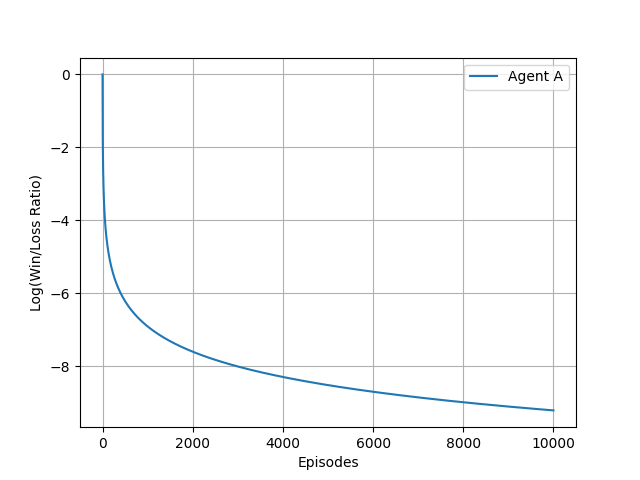
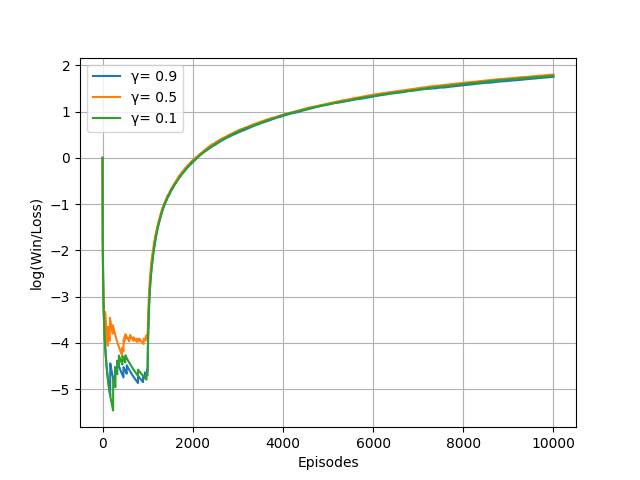
plot functions in deterministic case

diff --git a/qlearning.py b/qlearning.py
@@ -3,28 +3,21 @@ from gymnasium import Env
 import numpy as np
 import math
 
-def build_env(deterministic: bool, map_name: str, render_mode: str) -> Env:
-    return gym.make('FrozenLake-v1', map_name=map_name, is_slippery=deterministic, render_mode=render_mode)
+def build_env(stochastic: bool, map_name: str, render_mode: str) -> Env:
+    return gym.make('FrozenLake-v1', map_name=map_name, is_slippery=stochastic, render_mode=render_mode)
 
-def softmax(q_values, k):
-    q_scaled = k * q_values
-    q_scaled -= np.max(q_scaled)
-    exp_q = np.exp(q_scaled)
-    return exp_q / np.sum(exp_q)
+def epsilon_decay(episode, epsilon_min=0.05, epsilon_start=0.9, decay_rate=0.995, num_episodes = 1000):
+    
+    if episode < num_episodes * 0.1:
+        return epsilon_start
+    epsilon = epsilon_start * (decay_rate ** episode)
+    return max(epsilon, epsilon_min)
 
-def epsilon_decay(episode, epsilon_min=0.01, epsilon_start=0.9, decay_rate=0.001):
-    epsilon = epsilon_min + (epsilon_start - epsilon_min) * math.exp(-decay_rate * episode)
-    return epsilon
-
-
-def _train_deterministic(
+def train_deterministic(
     env: Env,
     num_episodes: int = 1000,
     discount_factor: float = 0.95,
-    epsilon: float = 0.9,
-    k_min: float = 0.1,
-    k_max: float = 100,
-    epsilon_greedy: bool = True
+    epsilon: float = 0.9
     
 ):
     n_states = env.observation_space.n
@@ -34,16 +27,15 @@ def _train_deterministic(
     # for each s, a initialize table entry Qˆ[s, a] ← 0
     Q = np.zeros((n_states, n_actions)) 
 
-    # Random Generator used in softmax strategy
-    rng = np.random.default_rng() # Generator instance
-
     rewards_per_episodes = [0] * num_episodes # initialize to 0
 
+    
     # Iterate over num_episodes
     for episode in range(num_episodes):
         
+        epsilon = epsilon_decay(episode=episode, epsilon_start=epsilon, num_episodes=num_episodes)
         done = False
-
+    
         # Step 2 - observe the current state
         state, _ = env.reset()
 
@@ -53,29 +45,13 @@ def _train_deterministic(
             # How does agent chooses next action? Eploitation vs Exploration
             
             # ε-greedy exploration
-            if epsilon_greedy:
-
-                # ε decreases over time (prefer exploration first, then exploitation as suggested in the slides)
-
-                epsilon = epsilon_decay(episode=episode, epsilon_start=epsilon)
-
-                if np.random.rand() < epsilon:
-                    # Exploration
-                    action = env.action_space.sample()
-                else:
-                    # Exploitation: Chooses an action that maximize Qˆ(s, a)
-                    action = np.argmax(Q[state, :])
+            if np.random.rand() < epsilon:    
+                # Exploration
+                action = env.action_space.sample()
             else:
-                
-                # Softmax strategy as suggested in the slides k may increase over time (first exploration, then exploitation)
-                k = k_min + (k_max - k_min) * (episode / num_episodes)
-
-                #softmax function assigns different probabilities to each action — depending on their Q-values.
-                action_probs = softmax(Q[state], k) 
-                
-                # randomly selects an action using a softmax probability distribution over actions
-                action = rng.choice(n_actions, p=action_probs)
-
+                # Exploitation: Chooses an action that maximize Qˆ(s, a)
+                action = np.argmax(Q[state, :])
+            
             # Execute the given action
             next_state, reward, truncated, terminated, _ = env.step(action)
 
@@ -84,30 +60,33 @@ def _train_deterministic(
             
             # Update the table entry
             Q[state, action] = reward + discount_factor * np.max(Q[next_state, :])
-
+            
             # Update the current state
             state = next_state
         
             # Overwrite the item at index episode with value 1
             if reward == 1:
-                rewards_per_episodes[episode] = 1 
-    
+                rewards_per_episodes[episode] = 1
+
+            
+            
     # For each state s (each row in Q), it finds the action index with the highest Q-value
     policy = np.argmax(Q, axis=1) # policy is a 1D array of length n_states 
 
+    env.close()
     return Q, policy, rewards_per_episodes
 
-def train_deterministic_epsilon_greedy(env: Env,
-    num_episodes: int = 1000,
-    discount_factor: float = 0.95,
-    epsilon: float = 0.9,
-    ):
-    return _train_deterministic(env=env, num_episodes=num_episodes, discount_factor=discount_factor, epsilon=epsilon, epsilon_greedy=True)
 
-def train_deterministic_softmax(env: Env,
-    num_episodes: int = 1000,
-    discount_factor: float = 0.95,
-    k_min: float = 0.1,
-    k_max: float = 100,
-    ):
-    return _train_deterministic(env=env, num_episodes=num_episodes, discount_factor=discount_factor, k_min=k_min, k_max=k_max, epsilon_greedy=False)
+def run_agent(env, policy, num_episodes):
+    win_count = 0
+    for _ in range(num_episodes):
+        done = False
+        state = env.reset()[0]
+        while not done:
+            action = policy[state]
+            new_state, reward, terminated, truncated, _ = env.step(action)
+            state = new_state
+            done = terminated or truncated
+        if reward > 0:
+            win_count += 1
+    return win_count / num_episodes  # Return success rate

diff --git a/main.py b/main.py
@@ -1,7 +1,6 @@
-from qlearning import train_deterministic_epsilon_greedy, train_deterministic_softmax, build_env
+from qlearning import train_deterministic, build_env, run_agent
 import matplotlib.pyplot as plt
 import numpy as np
-
 
 def plot_cumulative_wins_vs_episode(series_dict, num_episodes):
     cumulative_episodes = np.arange(1, num_episodes + 1)
@@ -14,10 +13,7 @@ def plot_cumulative_wins_vs_episode(series_dict, num_episodes):
         cumulative_losses = cumulative_episodes - cumulative_wins
 
         # Avoid division by zero
-        cumulative_losses = np.maximum(cumulative_losses, 1)
-
-        cumulative_wins = np.maximum(cumulative_wins, 1)
-        
+        cumulative_wins =  np.maximum(cumulative_wins, 1)
         cumulative_losses = np.maximum(cumulative_losses, 1)
 
         # Compute log(win/loss ratio)
@@ -27,33 +23,71 @@ def plot_cumulative_wins_vs_episode(series_dict, num_episodes):
         plt.plot(log_win_loss_ratio, label=label)
     
     plt.xlabel('Episodes')
-    plt.ylabel('Log(Win/Loss Ratio)')
+    plt.ylabel('log(Win/Loss)')
     plt.legend(loc='best')
     plt.grid(True)
-    #plt.ylim(-10, 0)
+    
     plt.savefig("cumulative_wins_vs_episode.png")
 
-
-
+def simple_success_rate_plot(win_counts, window_size=100):
+    """
+    Simple version that just plots the rolling success rate
+    """
+    rolling_success_rate = []
+    for i in range(len(win_counts)):
+        start_idx = max(0, i - window_size + 1)
+        window_wins = sum(win_counts[start_idx:i+1])
+        window_episodes = i - start_idx + 1
+        rolling_success_rate.append(window_wins / window_episodes)
+    
+    plt.figure(figsize=(10, 6))
+    plt.plot(range(1, len(win_counts) + 1), rolling_success_rate, 'b-', linewidth=2)
+    plt.axhline(y=sum(win_counts)/len(win_counts), color='r', linestyle='--', 
+                label=f'Overall Success Rate: {sum(win_counts)/len(win_counts):.3f}')
+    plt.xlabel('Episode')
+    plt.ylabel('Success Rate')
+    plt.title(f'Agent Success Rate Over Time (Rolling Window: {window_size})')
+    plt.legend()
+    plt.grid(True, alpha=0.3)
+    plt.ylim(0, 1)
+    plt.show()
+    
+    return rolling_success_rate
 
 def main():
-    env = build_env(deterministic=True, map_name="4x4", render_mode=None)
-    Q, policy, rewards_per_episodes = train_deterministic_epsilon_greedy(env=env, epsilon=0.9, num_episodes=10000)
 
-    series = { 
-        "Agent A": rewards_per_episodes
+    NUM_EPISODES = 10000
+
+    env = build_env(stochastic=False, map_name="4x4", render_mode=None)
+    _, policy_09, rewards_per_episodes_gamma_09 = train_deterministic(env=env, epsilon=0.995, num_episodes=NUM_EPISODES, discount_factor=0.9)
+
+    env = build_env(stochastic=False, map_name="4x4", render_mode=None)
+    _, policy_05, rewards_per_episodes_gamma_05 = train_deterministic(env=env, epsilon=0.995, num_episodes=NUM_EPISODES, discount_factor=0.5)
+
+    env = build_env(stochastic=False, map_name="4x4", render_mode=None)
+    _, policy_01, rewards_per_episodes_gamma_01 = train_deterministic(env=env, epsilon=0.995, num_episodes=NUM_EPISODES, discount_factor=0.1)
+    
+    env = build_env(stochastic=False, map_name="4x4", render_mode=None)
+    win_counts_09, loss_counts_09 = run_agent(env, policy_09, num_episodes=NUM_EPISODES)
+
+    env = build_env(stochastic=False, map_name="4x4", render_mode=None)
+    win_counts_05, loss_counts_05 = run_agent(env, policy_05, num_episodes=NUM_EPISODES)
+
+    env = build_env(stochastic=False, map_name="4x4", render_mode=None)
+    win_counts_01, loss_counts_01 = run_agent(env, policy_01, num_episodes=NUM_EPISODES)
+
+
+    gamma_label = '\u03B3'
+
+    training_series = { 
+        gamma_label + "= 0.9": rewards_per_episodes_gamma_09,
+        gamma_label + "= 0.5": rewards_per_episodes_gamma_05,
+        gamma_label + "= 0.1": rewards_per_episodes_gamma_01
     }
 
-    print(rewards_per_episodes)
+    
 
-    plot_cumulative_wins_vs_episode(series_dict=series, num_episodes=10000)
-
-
-
-
+    plot_cumulative_wins_vs_episode(series_dict=training_series, num_episodes=NUM_EPISODES)
 
 if __name__=="__main__":
     main()
-
-
-
